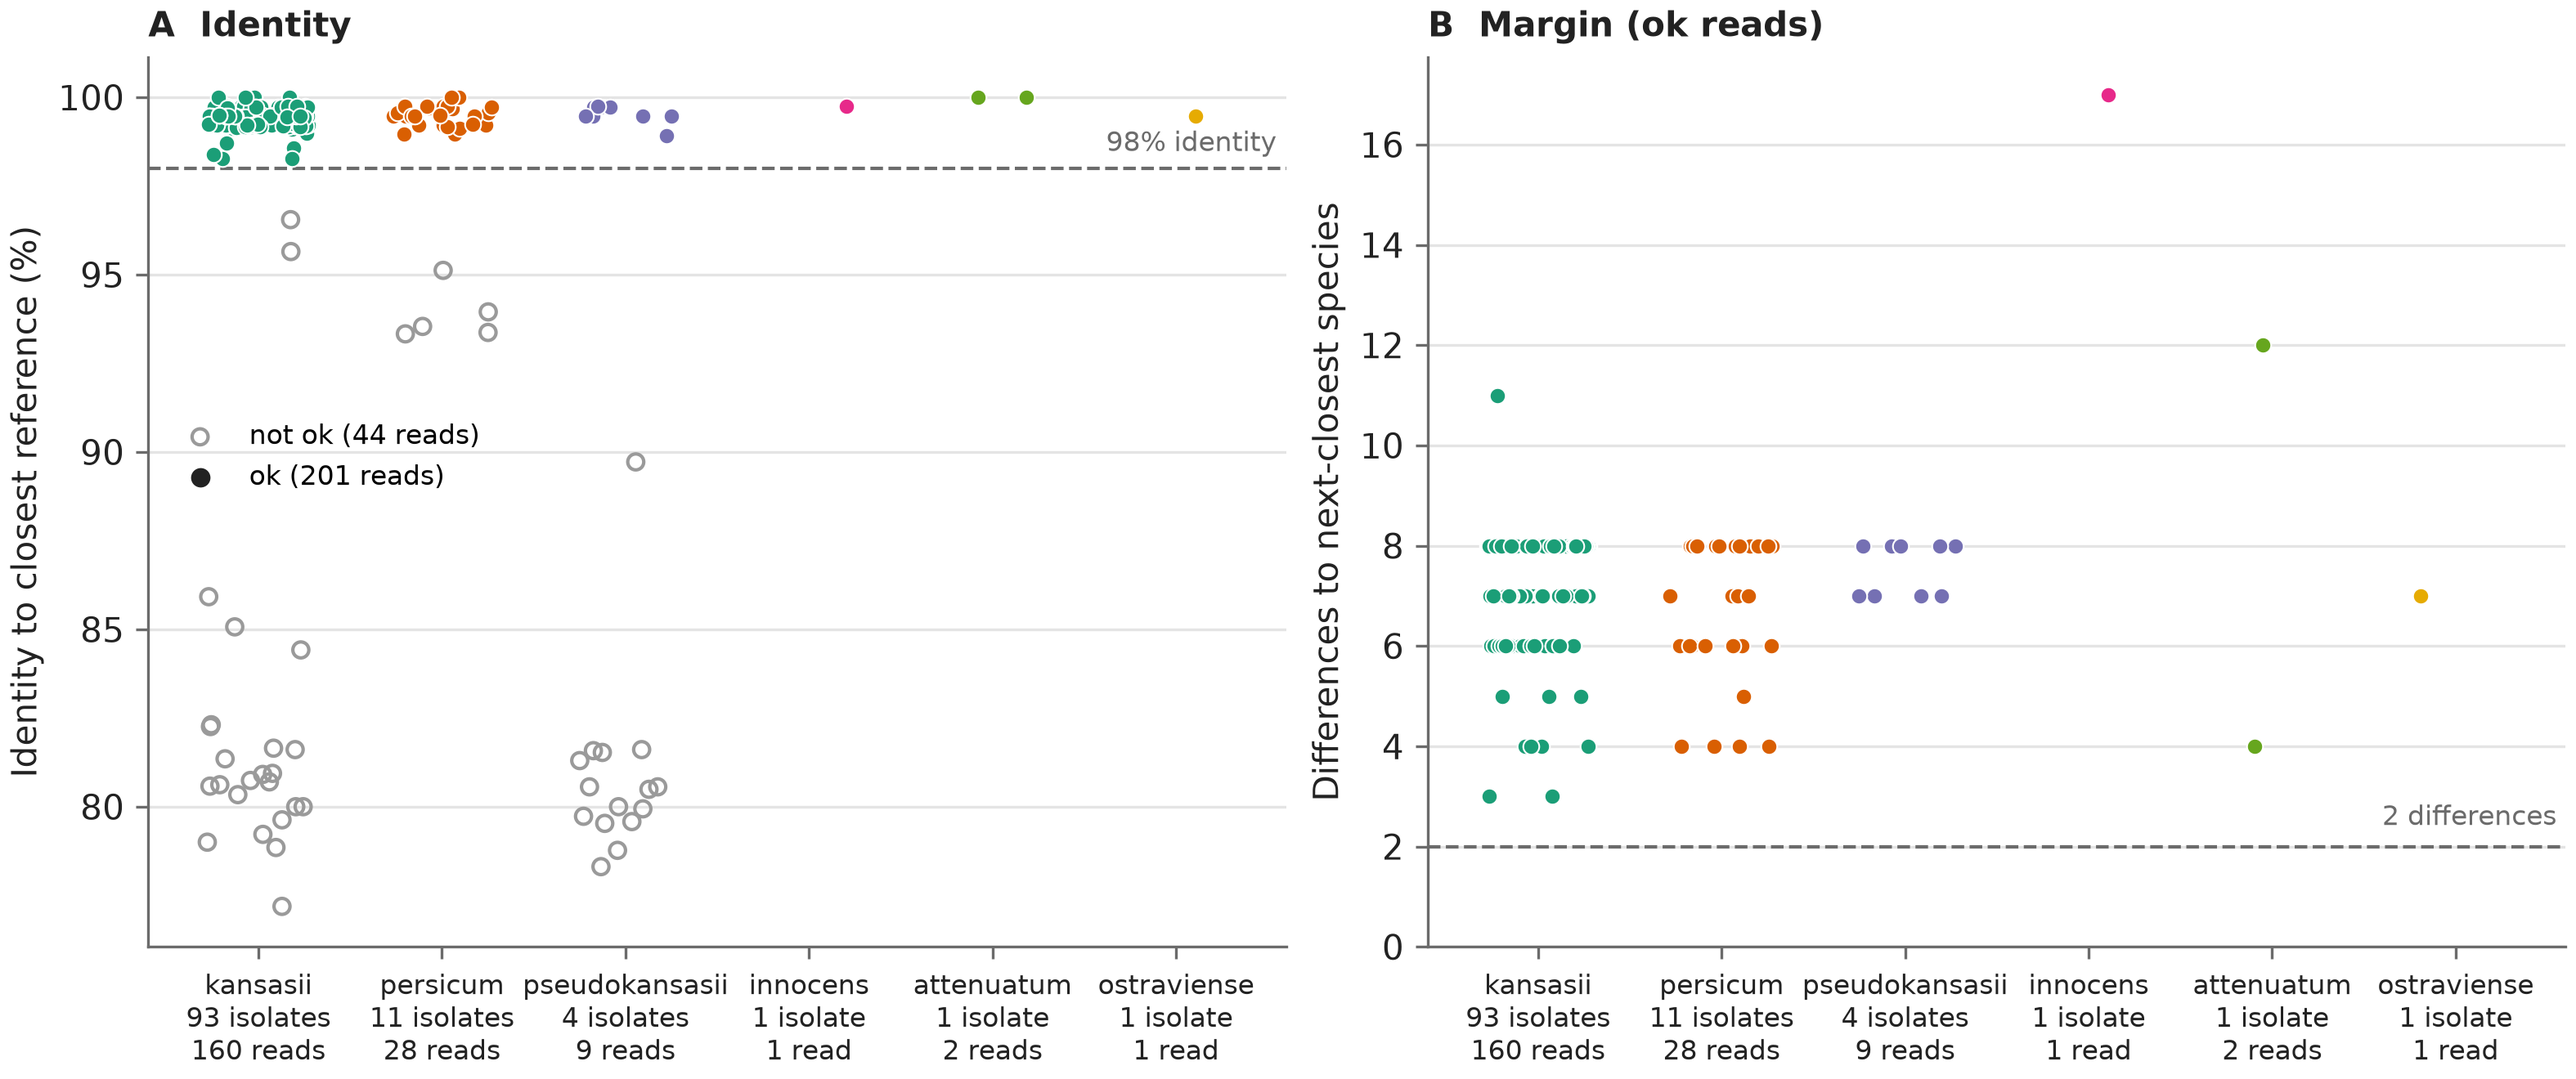
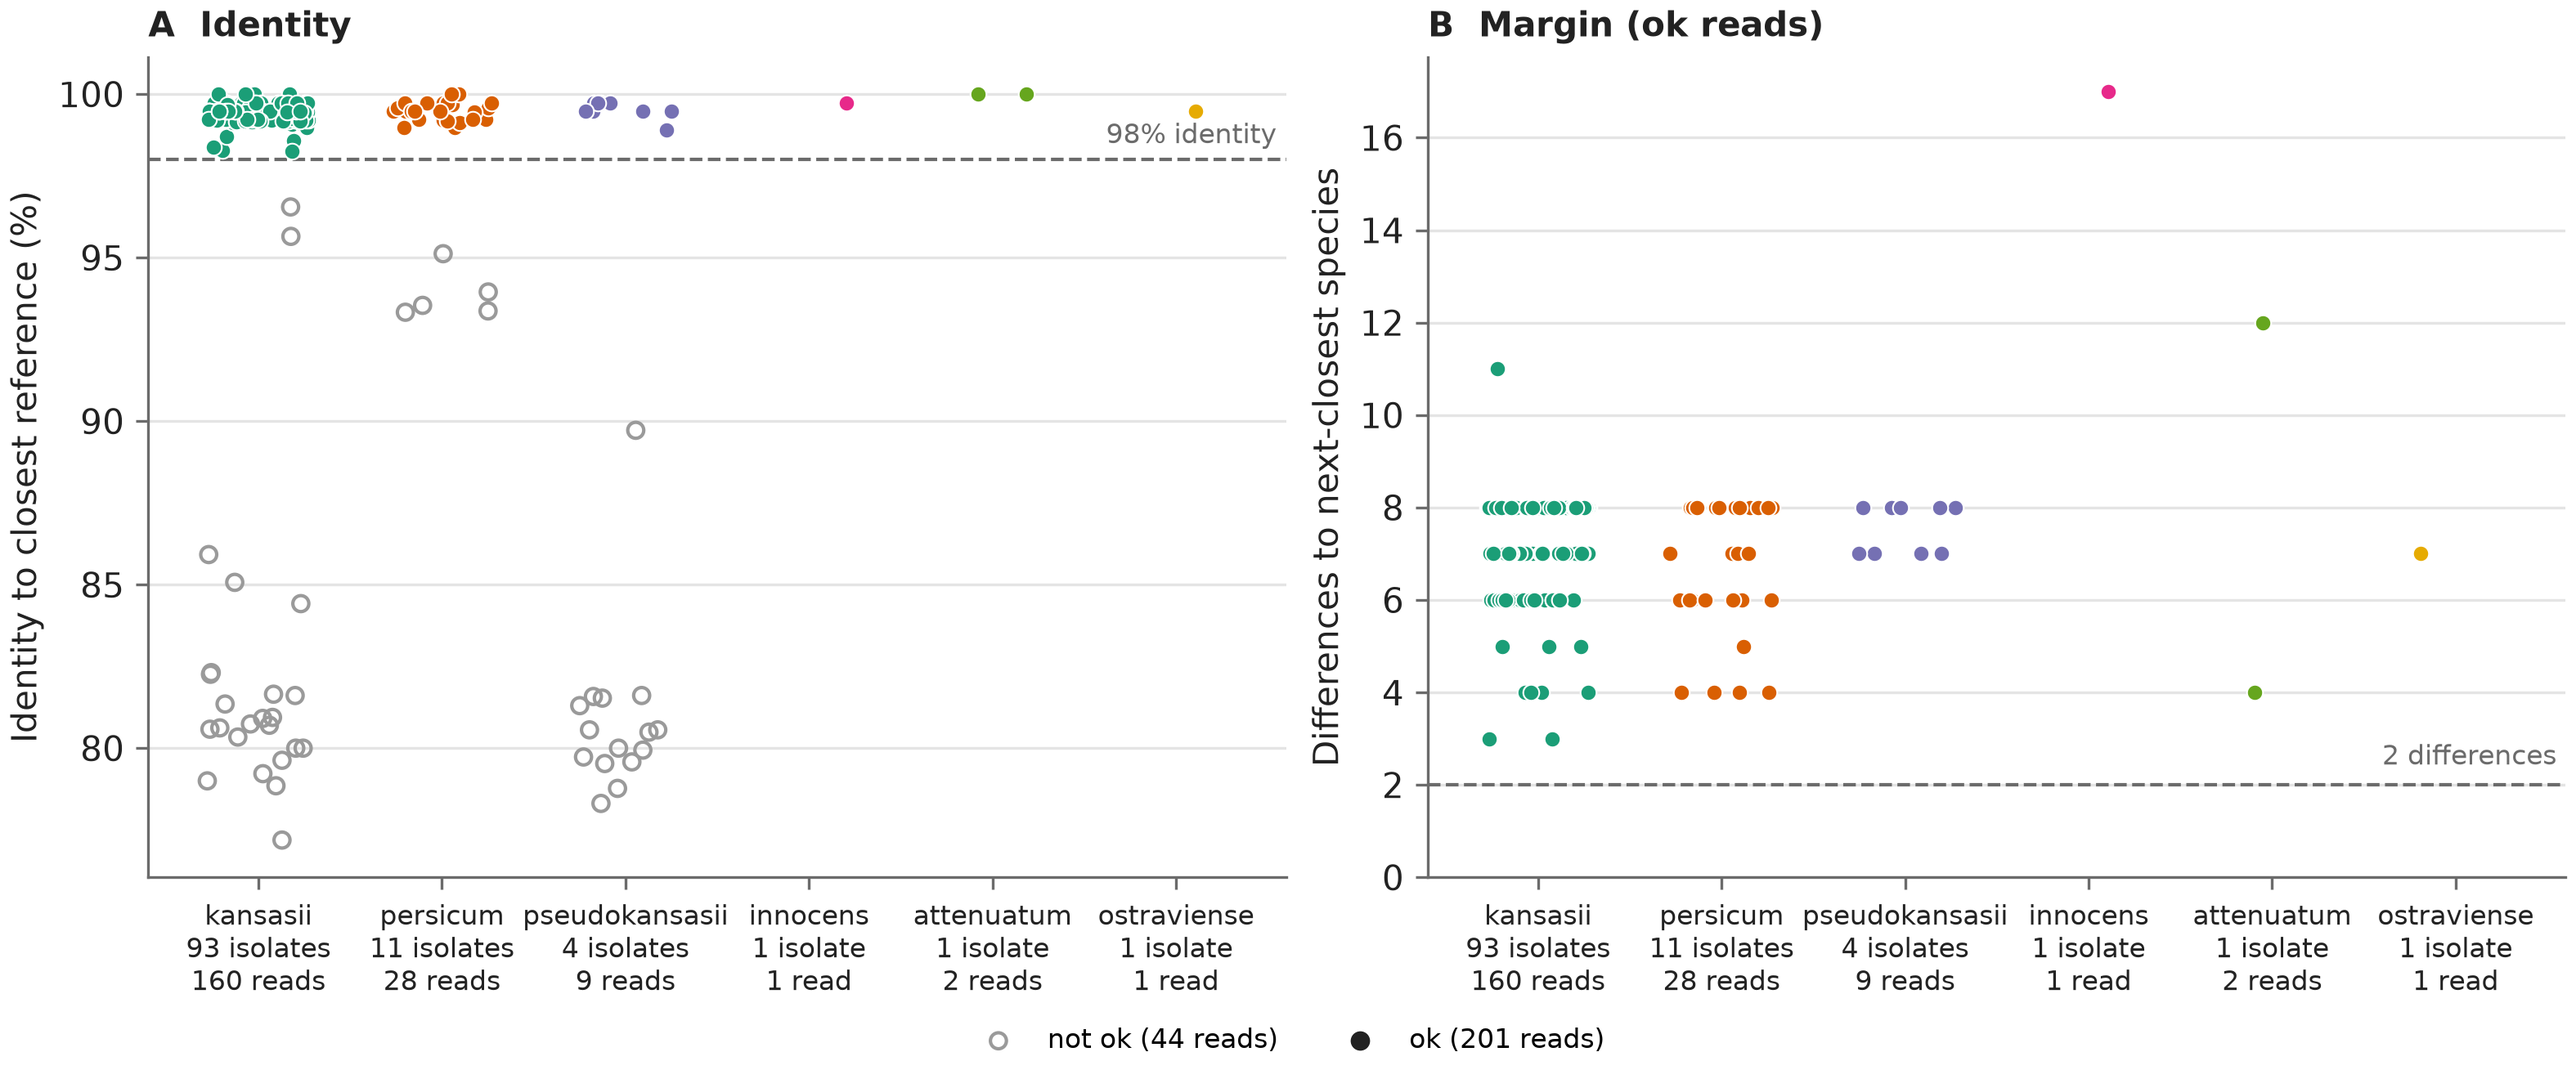
Move hsp65 identity/margin figure legend outside the axes
The legend sat inside panel A and its markers looked like samples.
It is now a figure-level legend below both panels.

diff --git a/scripts/03_figure.py b/scripts/03_figure.py
@@ -83,7 +83,8 @@ def main() -> None:
     b.set_title("B  Margin (ok reads)", loc="left", fontsize=10, color=INK, fontweight="bold")
     a.scatter([], [], s=22, facecolors="none", edgecolors="#9a9a9a", label=f"not ok ({len(other)} reads)")
     a.scatter([], [], s=22, color=INK, label=f"ok ({len(ok)} reads)")
-    a.legend(frameon=False, fontsize=8, loc="center left", bbox_to_anchor=(0.0, 0.55))
+    handles, leg_labels = a.get_legend_handles_labels()
+    fig.legend(handles, leg_labels, frameon=False, fontsize=8, loc="outside lower center", ncol=2)  # outside both axes
 
     out = args.out / "figures"
     out.mkdir(exist_ok=True)
